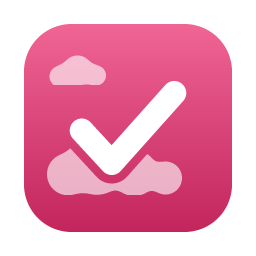
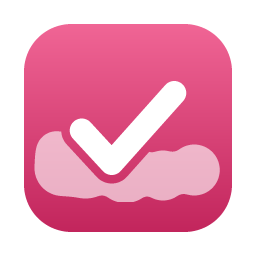
Make the cloud bigger, and the only one
One bank, wider and deeper than before, with an extra lobe stacked on the
left shoulder so the silhouette is billows rather than one arc. The wisp
that sat up in the sky is gone.

The puffs are big and overlap by most of their radius: spaced any wider,
the valleys between them cut deep and the bank reads as a row of hills. A
first attempt at "fluffier" — eight smaller puffs across the same span —
did exactly that.

`Cloud` and its array are gone with the second cloud; one bank is a list
of puffs and a base. The two cloud tests now compare against the sky the
gradient gives for that row instead of a second sample of bare sky, of
which there is much less now.

Claude-Session: https://claude.ai/code/session_01WUGKgiLDFNje64SbQRnMnL

Changed region(s): [[0.125, 0.5, 0.875, 0.8125], [0.1875, 0.2188, 0.4375, 0.3438]]

diff --git a/src/icon.rs b/src/icon.rs
@@ -24,15 +24,15 @@ const STROKE: f32 = 96.0;
 
 /// Open Color pink 5 and pink 8 — the family the default accent is drawn
 /// from in `theme.rs`, so the icon and a fresh install match. Read as a sky
-/// rather than a flat plate once there are clouds in front of it.
+/// rather than a flat plate once there is a cloud in front of it.
 const TOP: [f32; 3] = [0xf0 as f32, 0x65 as f32, 0x95 as f32];
 const BOTTOM: [f32; 3] = [0xc2 as f32, 0x25 as f32, 0x5c as f32];
 const MARK: [f32; 3] = [255.0, 255.0, 255.0];
 
-/// How far the clouds are blended toward white. Short of opaque, so the pure
+/// How far the cloud is blended toward white. Short of opaque, so the pure
 /// white check mark still reads as the front-most thing in the picture.
 const CLOUD_MIX: f32 = 0.62;
-/// Sky left showing between a cloud and the check mark. The two are both
+/// Sky left showing between the cloud and the check mark. The two are both
 /// white-ish, so without a parting they would merge into one blob at the
 /// sizes where it matters most.
 const HALO: f32 = 34.0;
@@ -41,40 +41,27 @@ const HALO: f32 = 34.0;
 /// to-do (`ui::check_glyph`), so the icon is a picture of the app's own mark.
 const CHECK: [(f32, f32); 3] = [(-185.0, 10.0), (-65.0, 140.0), (185.0, -140.0)];
 
-/// A cloud: overlapping puffs, blended into one another, sliced off flat
-/// underneath. Coordinates are relative to the centre of the canvas.
-struct Cloud {
-    /// Centre and radius of each puff.
-    puffs: &'static [(f32, f32, f32)],
-    /// The flat bottom edge.
-    base: f32,
-}
-
-/// A bank across the bottom, which the elbow of the check mark sinks into, and
-/// a smaller one high on the other diagonal — the mark runs bottom-left to
-/// top-right, so that is where the room is — to put the mark among the clouds
-/// rather than standing on them.
-const CLOUDS: [Cloud; 2] = [
-    Cloud {
-        // Kept clear of the inside of the check's V, where a puff would show
-        // through as a stray fleck rather than as weather.
-        puffs: &[
-            (-240.0, 185.0, 84.0),
-            (-125.0, 145.0, 122.0),
-            (25.0, 180.0, 92.0),
-            (150.0, 200.0, 66.0),
-        ],
-        base: 268.0,
-    },
-    Cloud {
-        puffs: &[
-            (-272.0, -206.0, 42.0),
-            (-202.0, -230.0, 60.0),
-            (-128.0, -210.0, 40.0),
-        ],
-        base: -172.0,
-    },
+/// A bank of cloud across the bottom, which the elbow of the check mark sinks
+/// into: puffs blended into one another and sliced off flat underneath. Centre
+/// and radius of each, relative to the centre of the canvas.
+///
+/// They are big, and overlap by most of their radius. Spaced any wider the
+/// valleys between them cut deep and the bank reads as hills rather than as
+/// weather. They are also kept clear of the inside of the check's V, where a
+/// puff shows through as a stray fleck rather than as cloud.
+const PUFFS: [(f32, f32, f32); 6] = [
+    (-286.0, 95.0, 82.0),
+    (-262.0, 160.0, 112.0),
+    (-170.0, 140.0, 142.0),
+    (-10.0, 178.0, 122.0),
+    (140.0, 190.0, 100.0),
+    (265.0, 168.0, 102.0),
 ];
+/// The flat bottom edge of the bank.
+const BASE: f32 = 296.0;
+/// How much of the seam between two puffs is rounded away. Small enough to
+/// leave the billows legible.
+const BILLOW: f32 = 26.0;
 
 /// Sizes macOS wants in an `.iconset`, as (pixels, file name).
 const ICONSET: [(u32, &str); 10] = [
@@ -127,24 +114,20 @@ fn smooth_min(a: f32, b: f32, k: f32) -> f32 {
     b + (a - b) * h - k * h * (1.0 - h)
 }
 
-/// Signed distance to the nearest cloud: negative inside.
-fn clouds(x: f32, y: f32) -> f32 {
+/// Signed distance to the cloud: negative inside.
+fn cloud(x: f32, y: f32) -> f32 {
     let p = (x - CANVAS / 2.0, y - CANVAS / 2.0);
-    let mut nearest = f32::MAX;
-    for cloud in &CLOUDS {
-        let mut d = f32::MAX;
-        for &(cx, cy, r) in cloud.puffs {
-            let puff = ((p.0 - cx).powi(2) + (p.1 - cy).powi(2)).sqrt() - r;
-            d = if d == f32::MAX {
-                puff
-            } else {
-                smooth_min(d, puff, 36.0)
-            };
-        }
-        // Intersecting with the half-plane above `base` flattens the bottom.
-        nearest = nearest.min(d.max(p.1 - cloud.base));
+    let mut d = f32::MAX;
+    for &(cx, cy, r) in &PUFFS {
+        let puff = ((p.0 - cx).powi(2) + (p.1 - cy).powi(2)).sqrt() - r;
+        d = if d == f32::MAX {
+            puff
+        } else {
+            smooth_min(d, puff, BILLOW)
+        };
     }
-    nearest
+    // Intersecting with the half-plane above `BASE` flattens the bottom.
+    d.max(p.1 - BASE)
 }
 
 fn gradient(y: f32) -> [f32; 3] {
@@ -181,8 +164,8 @@ pub fn rgba(size: u32) -> Vec<u8> {
                         MARK
                     } else {
                         let sky = gradient(py);
-                        // Clouds behind the mark, and parting around it.
-                        if clouds(px, py) <= 0.0 && mark > HALO {
+                        // Cloud behind the mark, and parting around it.
+                        if cloud(px, py) <= 0.0 && mark > HALO {
                             [
                                 sky[0] + (MARK[0] - sky[0]) * CLOUD_MIX,
                                 sky[1] + (MARK[1] - sky[1]) * CLOUD_MIX,
@@ -354,21 +337,23 @@ mod tests {
         );
     }
 
-    /// A pixel by its position relative to the centre of the canvas, which is
-    /// how the artwork's own geometry is written.
-    fn at(rgba: &[u8], size: u32, cx: f32, cy: f32) -> [u8; 4] {
+    /// The pixel at a position relative to the centre of the canvas — the
+    /// frame the artwork's own geometry is written in — paired with the sky on
+    /// that row, which is what the pixel would be with nothing drawn over it.
+    /// Comparing against the row rather than against a second sample keeps the
+    /// gradient out of the measurement.
+    fn sample(rgba: &[u8], size: u32, cx: f32, cy: f32) -> ([u8; 4], [u8; 3]) {
         let to_px = |v: f32| ((CANVAS / 2.0 + v) / CANVAS * size as f32) as u32;
-        pixel(rgba, size, to_px(cx), to_px(cy))
+        let (x, y) = (to_px(cx), to_px(cy));
+        let sky = gradient((y as f32 + 0.5) * (CANVAS / size as f32));
+        (pixel(rgba, size, x, y), sky.map(|c| c.round() as u8))
     }
 
     #[test]
-    fn the_clouds_are_lighter_than_the_sky_and_darker_than_the_mark() {
+    fn the_cloud_is_lighter_than_the_sky_and_darker_than_the_mark() {
         let size = 256;
-        let px = rgba(size);
-        // The middle of the bank, against bare sky on the same row — same row,
-        // so the gradient is not what is being measured.
-        let cloud = at(&px, size, -230.0, 170.0);
-        let sky = at(&px, size, -370.0, 170.0);
+        // A lobe out on the left of the bank, well clear of the mark.
+        let (cloud, sky) = sample(&rgba(size), size, -300.0, 200.0);
         for c in 0..3 {
             assert!(
                 cloud[c] > sky[c],
@@ -377,18 +362,16 @@ mod tests {
         }
         assert!(
             cloud.iter().take(3).any(|&c| c < 240),
-            "the clouds are as white as the check mark: {cloud:?}"
+            "the cloud is as white as the check mark: {cloud:?}"
         );
     }
 
     #[test]
-    fn the_clouds_part_around_the_mark() {
+    fn the_cloud_parts_around_the_mark() {
         let size = 256;
-        let px = rgba(size);
         // Just under the elbow: inside the bank, but within the halo, so it
         // should be sky rather than cloud.
-        let gap = at(&px, size, -65.0, 203.0);
-        let sky = at(&px, size, -370.0, 203.0);
+        let (gap, sky) = sample(&rgba(size), size, -65.0, 203.0);
         for c in 0..3 {
             assert!(
                 gap[c].abs_diff(sky[c]) <= 1,

diff --git a/README.md b/README.md
@@ -445,8 +445,8 @@ reproducible.
 ### The icon
 
 `src/icon.rs` draws the icon rather than loading one — a check mark in the
-clouds: distance fields for the rounded square, the clouds and the check mark,
-supersampled, plus a small PNG writer. The clouds stop short of white and part
+clouds: distance fields for the rounded square, the cloud and the check mark,
+supersampled, plus a small PNG writer. The cloud stops short of white and parts
 around the mark, so the mark stays the front-most thing in the picture. The
 window icon, the `.icns` in the bundle, and the image at the top of this file
 all come out of it, and each size is rasterised at its own resolution instead
